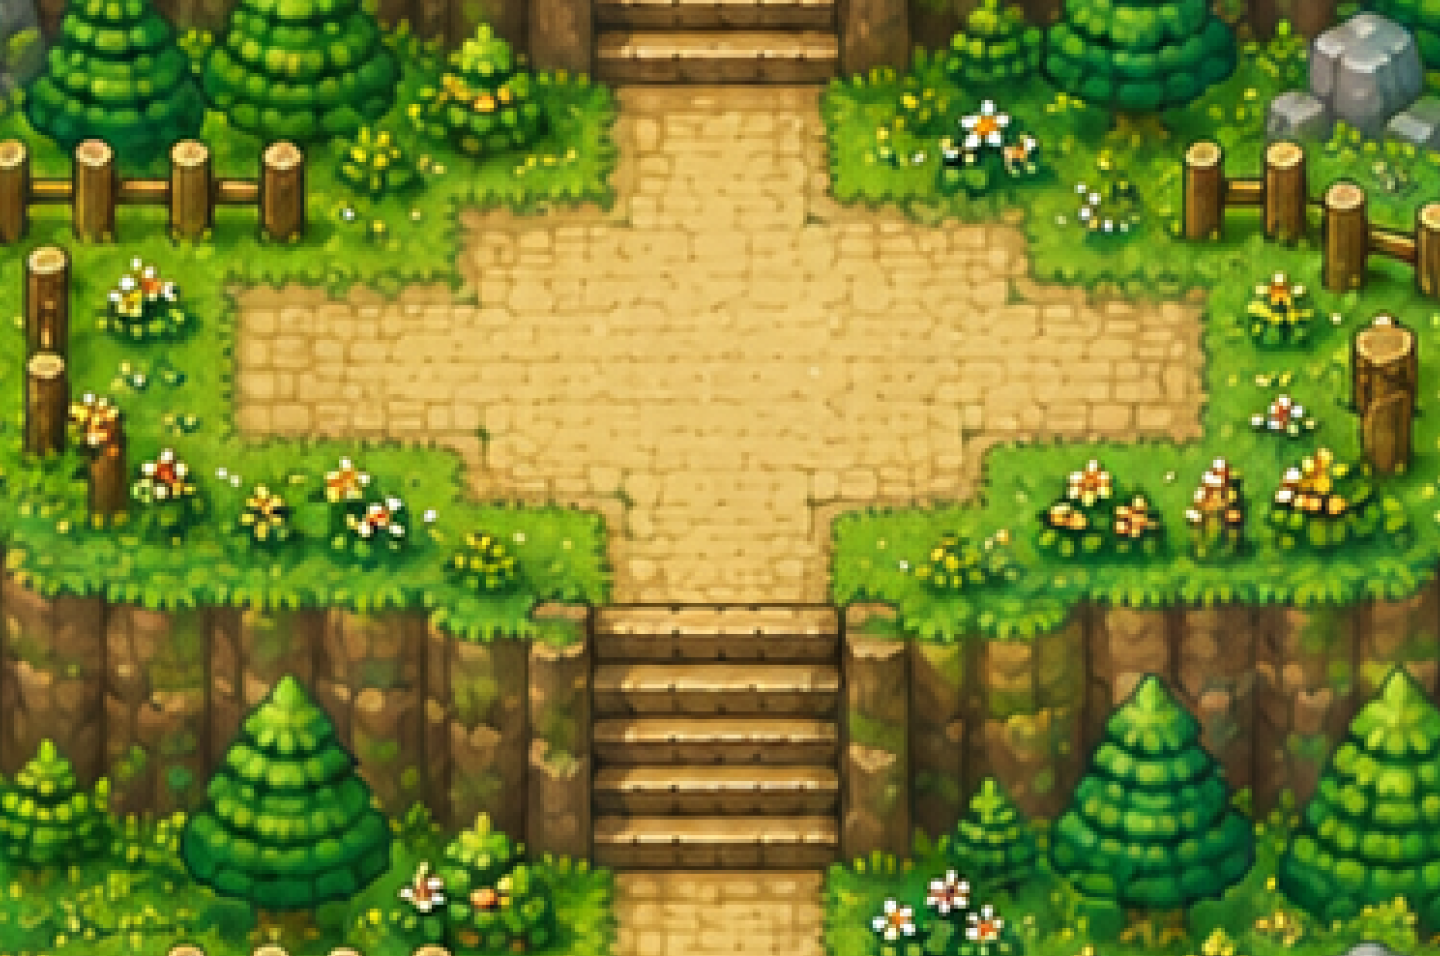
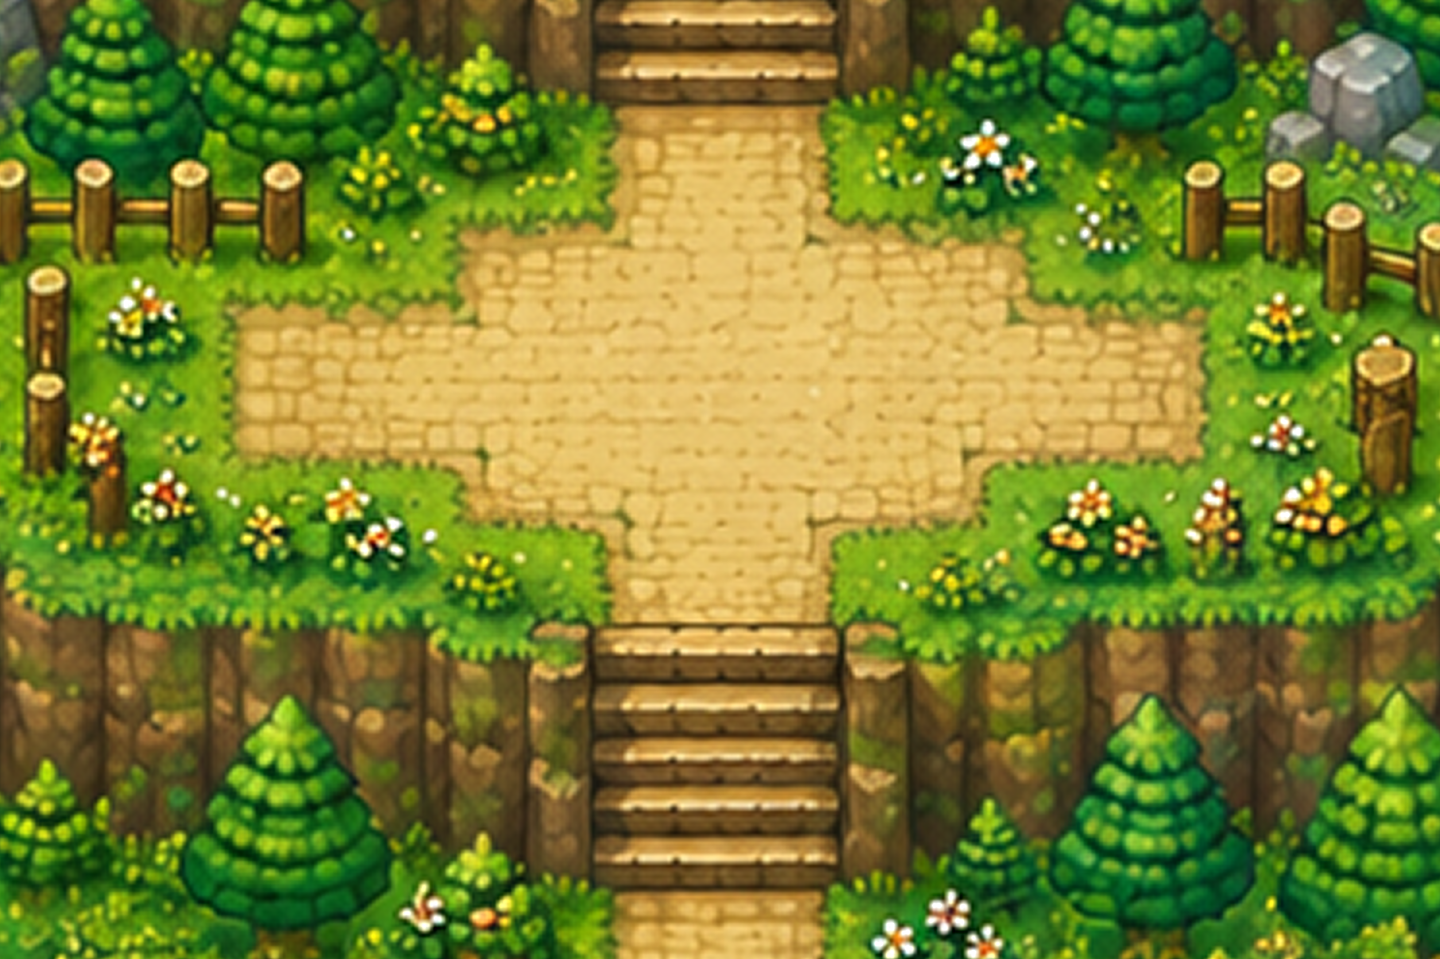
style : 대전 지도 배경 교체
- 새 지도 원본에 맞춰 분할 배경 이미지 8개를 갱신
- 지도 높이와 분할 영역 비율을 새 에셋 기준으로 조정
- 선택 관장 느낌표가 영역 경계에서 가려지지 않도록 보정

diff --git a/src/screens/battle-map-screen/ui/BattleMapScreen.tsx b/src/screens/battle-map-screen/ui/BattleMapScreen.tsx
@@ -43,8 +43,8 @@ const DAON_COACH_SILHOUETTE = require('@/src/shared/assets/images/battle/daon-co
 const ION_COACH = require('@/src/shared/assets/images/battle/ion-coach.png');
 const ION_COACH_SILHOUETTE = require('@/src/shared/assets/images/battle/ion-coach-silhouette.png');
 const MAP_ORIGINAL_WIDTH = 1440;
-const MAP_ORIGINAL_HEIGHT = 7648;
-const MAP_SEGMENT_ORIGINAL_HEIGHT = 956;
+const MAP_ORIGINAL_HEIGHT = 7672;
+const MAP_SEGMENT_ORIGINAL_HEIGHT = 959;
 const MORU_DESIGN_WIDTH = 360;
 const MORU_CENTER_X = 720;
 const MORU_TOP = 6810;
@@ -342,6 +342,24 @@ export function BattleMapScreen() {
               screenWidth *
               (MAP_SEGMENT_ORIGINAL_HEIGHT / MAP_ORIGINAL_WIDTH);
             const segmentTop = index * segmentHeight;
+            const selectedGymLeader = gymLeaders.find(
+              (gymLeader) =>
+                gymLeader.gymLeaderId === selectedGymLeaderId,
+            );
+            const selectedCoach = selectedGymLeader
+              ? COACH_PLACEMENTS[selectedGymLeader.challengeOrder - 1]
+              : undefined;
+            const selectedCoachTop =
+              selectedGymLeader && selectedCoach
+                ? selectedGymLeader.challengeOrder === 1
+                  ? moruTop
+                  : mapHeight *
+                    (selectedCoach.top / MAP_ORIGINAL_HEIGHT)
+                : undefined;
+            const containsSelectedCoach =
+              selectedCoachTop !== undefined &&
+              selectedCoachTop >= segmentTop &&
+              selectedCoachTop < segmentTop + segmentHeight;
 
             return (
               <View
@@ -350,7 +368,9 @@ export function BattleMapScreen() {
                   {
                     width: screenWidth,
                     height: segmentHeight,
-                    zIndex: BATTLE_MAP_SEGMENTS.length - index,
+                    zIndex: containsSelectedCoach
+                      ? BATTLE_MAP_SEGMENTS.length + 1
+                      : BATTLE_MAP_SEGMENTS.length - index,
                   },
                 ]}
               >
